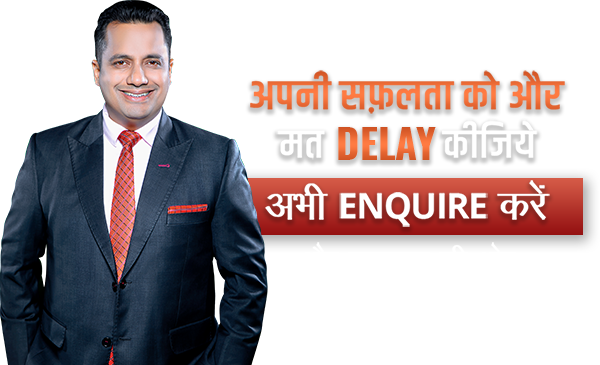
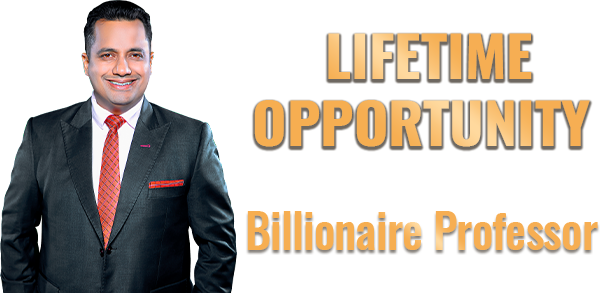
front page changed

diff --git a/index.html b/index.html
@@ -7,37 +7,72 @@
     <meta name="viewport" content="width=device-width, initial-scale=1.0">
     <title>HOW TO START A STARTUP</title>
     <link rel="stylesheet" href="css/style.css">
+    <link rel="stylesheet" type="text/css" href="https://www.badabusiness.com/assets/ibcenquiry/css/style.css">
+    <link rel="stylesheet" type="text/css" href="https://www.badabusiness.com/assets/ibcenquiry/css/media.css">
     <link href="https://cdn.jsdelivr.net/npm/bootstrap@5.1.0/dist/css/bootstrap.min.css" rel="stylesheet"
         integrity="sha384-KyZXEAg3QhqLMpG8r+8fhAXLRk2vvoC2f3B09zVXn8CA5QIVfZOJ3BCsw2P0p/We" crossorigin="anonymous">
-    <script src="https://code.jquery.com/jquery-3.2.1.slim.min.js" integrity="sha384-KJ3o2DKtIkvYIK3UENzmM7KCkRr/rE9/Qpg6aAZGJwFDMVNA/GpGFF93hXpG5KkN" crossorigin="anonymous"></script>
-    <script src="https://cdnjs.cloudflare.com/ajax/libs/popper.js/1.12.3/umd/popper.min.js" integrity="sha384-vFJXuSJphROIrBnz7yo7oB41mKfc8JzQZiCq4NCceLEaO4IHwicKwpJf9c9IpFgh" crossorigin="anonymous"></script>
-    <script src="https://maxcdn.bootstrapcdn.com/bootstrap/4.0.0-beta.2/js/bootstrap.min.js" integrity="sha384-alpBpkh1PFOepccYVYDB4do5UnbKysX5WZXm3XxPqe5iKTfUKjNkCk9SaVuEZflJ" crossorigin="anonymous"></script>
+    <script src="https://code.jquery.com/jquery-3.2.1.slim.min.js"
+        integrity="sha384-KJ3o2DKtIkvYIK3UENzmM7KCkRr/rE9/Qpg6aAZGJwFDMVNA/GpGFF93hXpG5KkN"
+        crossorigin="anonymous"></script>
+    <script src="https://cdnjs.cloudflare.com/ajax/libs/popper.js/1.12.3/umd/popper.min.js"
+        integrity="sha384-vFJXuSJphROIrBnz7yo7oB41mKfc8JzQZiCq4NCceLEaO4IHwicKwpJf9c9IpFgh"
+        crossorigin="anonymous"></script>
+    <script src="https://maxcdn.bootstrapcdn.com/bootstrap/4.0.0-beta.2/js/bootstrap.min.js"
+        integrity="sha384-alpBpkh1PFOepccYVYDB4do5UnbKysX5WZXm3XxPqe5iKTfUKjNkCk9SaVuEZflJ"
+        crossorigin="anonymous"></script>
 </head>
 
 <body>
 
-    <!-- Section 1 -->
-    <section id="bg-1" class="container-fluid">
+    <div class="first-div formcont bg_sales">
         <div class="row">
-            <div class="col-lg-12 col-md-12 pt-4">
-                <h1 class="text-center">HOW TO START A STARTUP</h1><h4 class="text-center underline"></h4>
-            </div>
-            <div class="col-lg-12 col-md-12 pt-4 d-flex justify-content-center">
-                <img style="border-radius: 20px;" src="images/poster.png" class="img-fluid">
-            </div>
-            <div class="col-lg-12 col-md-12 pt-4">
-                <a data-toggle="modal" data-target="#myModal" class="btn btn-primary d-block">
-                    <h4>Register Now</h4>
-                </a>
+            <div class="col-12">
+                <a href=""><img src="https://www.badabusiness.com/assets/ibcenquiry/images/logo_BB.png" alt="logo" class="bblogo" style="max-width: 100%;"></a><br>
             </div>
         </div>
-    </section>
+        <div class="container-fluid nogutter form_sal">
+            <div class="row nogutter deskkview">
+                <div class="col-lg-9 col-sm-12">
+                    <img src="https://www.badabusiness.com/assets/ibcenquiry/images/mob_web_bnrrr.png"
+                        style="max-width: 100%;" class="mobsview">
+                </div>
+                <div class="col-lg-3 col-sm-12 d-flex justify-content-center">
+                    <form method="post" autocomplete="off" name="google-sheet" class="formsales1" accept-charset="utf-8">
+                        <h1>Get In Touch With Us</h1>
+                        <div class="form-group">
+                            <input type="text" required="required" name="name" class="form-control curve_corner"
+                                id="exampleInputName" aria-describedby="Name" placeholder="Name" />
+                        </div>
+                        <div class="form-group">
+                            <input type="text" required="required" name="phone" class="form-control curve_corner"
+                                id="exampleInputPhone" aria-describedby="Phone" placeholder="Phone" />
+                        </div>
+                        <div class="form-group">
+                            <input type="email" required="required" class="form-control curve_corner" name="email"
+                                id="exampleInputEmail1" aria-describedby="emailHelp" placeholder="Email" />
+                        </div>
+                        <div class="uk-margin-small-top">
+                            <label class="uk-text-small">
+                                <input name="py_dd_status" class="uk-checkbox checkbox_val" type="checkbox">&nbsp;&nbsp;I agree to the <a target="_BLANK" href="https://www.badabusiness.com/terms-and-conditions">terms and conditions</a>.
+                            </label>
+                        </div>
+                        <div class="form-group text-center">
+                            <button class="btn btn-outline-secondary align-center" type="submit">
+                                Enquire Now
+                            </button>
+                        </div>
+                    </form>
+                </div>
+            </div>
+        </div>
+    </div>
 
     <!-- Section 2 -->
     <section id="section-2" class="container-fluid">
         <div class="row">
             <div class="col-lg-12 col-md-12 pt-4">
-                <h1 class="text-center">How to start a startup?</h1><h4 class="text-center underline"></h4>
+                <h1 class="text-center">How to start a startup?</h1>
+                <h4 class="text-center underline"></h4>
             </div>
             <div class="col-lg-12 col-md-12 pt-4 d-flex justify-content-center">
                 <video onclick="this.paused ? this.play() : this.pause();" poster="images/thumbnail.png" width="100%"
@@ -79,7 +114,8 @@
     <section id="bg-2" class="container-fluid">
         <div class="row">
             <div class="col-lg-12 col-md-12 pt-4">
-                <h1 class="text-center">Meet Our Billionaire Professor</h1><h4 class="text-center underline"></h4>
+                <h1 class="text-center">Meet Our Billionaire Professor</h1>
+                <h4 class="text-center underline"></h4>
             </div>
         </div>
     </section>
@@ -88,7 +124,8 @@
     <section class="container-fluid">
         <div class="row">
             <div class="col-lg-12 col-md-12 pt-4">
-                <h1 class="text-center">Our Esteemed Clients</h1><h4 class="text-center underline"></h4>
+                <h1 class="text-center">Our Esteemed Clients</h1>
+                <h4 class="text-center underline"></h4>
             </div>
             <div class="col-2 pt-4 d-flex justify-content-center">
                 <img src="images/clients/1.jpg" class="img-fluid">
@@ -151,7 +188,8 @@
     <section id="bg-2" class="section-3 container-fluid">
         <div class="row">
             <div class="col-lg-12 col-md-12 pt-4">
-                <h1 class="text-center">Time Is Running Out. Grab Your Spot Fast!</h1><h4 class="text-center underline"></h4>
+                <h1 class="text-center">Time Is Running Out. Grab Your Spot Fast!</h1>
+                <h4 class="text-center underline"></h4>
             </div>
             <div class="row pt-4">
                 <div class="col-lg-3 col-6 col-md-3 pb-2 pt-2">
@@ -199,7 +237,8 @@
     <section class="container-fluid">
         <div class="row">
             <div class="col-lg-12 col-md-12 pt-4">
-                <h1 class="text-center">If you register, What is your benifits?</h1><h4 class="text-center underline"></h4>
+                <h1 class="text-center">If you register, What is your benifits?</h1>
+                <h4 class="text-center underline"></h4>
             </div>
             <div class="col-lg-6 col-md-6 pt-4">
                 <div class="card benefit-card">
@@ -353,7 +392,8 @@
     <section id="bg-2" class="container-fluid">
         <div class="row">
             <div class="col-lg-12 col-md-12 pt-4">
-                <h1 class="text-center">Still wondering if this opportunity is for you?</h1><h4 class="text-center underline"></h4>
+                <h1 class="text-center">Still wondering if this opportunity is for you?</h1>
+                <h4 class="text-center underline"></h4>
             </div>
             <div class="col-lg-12 col-md-12 pt-4">
                 <div class="row">
@@ -414,7 +454,8 @@
     <section id="section-5" class="container-fluid">
         <div class="row">
             <div class="col-lg-12 col-md-12 pt-4">
-                <h1 class="text-center">You are not the first one to join</h1><h4 class="text-center underline"></h4>
+                <h1 class="text-center">You are not the first one to join</h1>
+                <h4 class="text-center underline"></h4>
             </div>
             <div class="col-lg-12 col-md-12 pt-4">
                 <div class="row">
@@ -451,7 +492,8 @@
     <section id="bg-1" class="container-fluid">
         <div class="row">
             <div class="col-lg-12 col-md-12 pt-4">
-                <h1 class="text-center">Meet Your Guru</h1><h4 class="text-center underline"></h4>
+                <h1 class="text-center">Meet Your Guru</h1>
+                <h4 class="text-center underline"></h4>
             </div>
             <div class="col-lg-12 col-md-12 pt-4">
                 <div class="row">
@@ -497,21 +539,34 @@
                 </div>
             </div>
             <div class="col-lg-12 col-md-12 pt-4">
-                <p>Dr Vivek Bindra is a Revolutionary Entrepreneur, an Internationally Acclaimed Motivational Speaker and a Business Coach.
-                    <br>Known for Creating Most Sought after Content on Leadership Development, which is Helping People across the Globe in achieving their Business Goals.
-                    <br>Author of 10 High Power Motivational Books, which are available on Flipkart and Amazon.</p>
+                <p>Dr Vivek Bindra is a Revolutionary Entrepreneur, an Internationally Acclaimed Motivational Speaker
+                    and a Business Coach.
+                    <br>Known for Creating Most Sought after Content on Leadership Development, which is Helping People
+                    across the Globe in achieving their Business Goals.
+                    <br>Author of 10 High Power Motivational Books, which are available on Flipkart and Amazon.
+                </p>
             </div>
             <div class="row">
                 <div class="col-lg-8 col-md-8 pt-4">
                     <h4>YouTube</h4>
-                    <p><img class="img-fluid" width="15px" src="images/arrow.png"> Owner of World’s Most Subscribed Entrepreneurship YouTube Channel.
-                        <br><img class="img-fluid" width="15px" src="images/arrow.png"> With 10.1 Million Active Subscribers on YouTube, he is one of the World’s Greatest Influencers.
-                        <br><img class="img-fluid" width="15px" src="images/arrow.png"> Known for Creating a Free Learning University on YouTube.</p>
+                    <p><img class="img-fluid" width="15px" src="images/arrow.png"> Owner of World’s Most Subscribed
+                        Entrepreneurship YouTube Channel.
+                        <br><img class="img-fluid" width="15px" src="images/arrow.png"> With 10.1 Million Active
+                        Subscribers on YouTube, he is one of the World’s Greatest Influencers.
+                        <br><img class="img-fluid" width="15px" src="images/arrow.png"> Known for Creating a Free
+                        Learning University on YouTube.
+                    </p>
                     <h4>Awards & Honours</h4>
-                    <p><img class="img-fluid" width="15px" src="images/arrow.png"> Bestowed with the Honorary Title of ‘Think Tank of Corporate Asia’ by World Leadership Federation, Dubai.
-                        <br><img class="img-fluid" width="15px" src="images/arrow.png"> Awarded the Best Leadership Trainer in Asia title by Marshall Goldsmith at the World HRD Congress.
-                        <br><img class="img-fluid" width="15px" src="images/arrow.png"> Awarded with India’s Greatest Brands and Leaders – Pride of the Nation Award in a ceremonial function hosted by PricewaterhouseCoopers (PwC)
-                        <br><img class="img-fluid" width="15px" src="images/arrow.png"> Awarded the Best CEO Coach in India by Times of India – Speaking Tree.</p>
+                    <p><img class="img-fluid" width="15px" src="images/arrow.png"> Bestowed with the Honorary Title of
+                        ‘Think Tank of Corporate Asia’ by World Leadership Federation, Dubai.
+                        <br><img class="img-fluid" width="15px" src="images/arrow.png"> Awarded the Best Leadership
+                        Trainer in Asia title by Marshall Goldsmith at the World HRD Congress.
+                        <br><img class="img-fluid" width="15px" src="images/arrow.png"> Awarded with India’s Greatest
+                        Brands and Leaders – Pride of the Nation Award in a ceremonial function hosted by
+                        PricewaterhouseCoopers (PwC)
+                        <br><img class="img-fluid" width="15px" src="images/arrow.png"> Awarded the Best CEO Coach in
+                        India by Times of India – Speaking Tree.
+                    </p>
                 </div>
                 <div class="col-lg-4 col-md-4 pt-4 d-flex justify-content-center">
                     <img class="img-fluid" src="images/hero.png">
@@ -525,13 +580,13 @@
         </div>
     </section>
 
-      <!-- Modal -->
+    <!-- Modal -->
     <div class="modal fade" id="myModal" role="dialog">
         <div class="modal-dialog">
-    
+
             <!-- Modal content-->
             <div class="modal-content">
-                <form method="post" autocomplete="off" name="google-sheet" class="formsales" accept-charset="utf-8">
+                <form method="post" autocomplete="off" name="google-sheet" class="formsales1" accept-charset="utf-8">
                     <h1>Get In Touch With Us</h1>
                     <div class="form-group">
                         <input type="text" required="required" name="name" class="form-control curve_corner"
@@ -545,6 +600,11 @@
                         <input type="email" required="required" class="form-control curve_corner" name="email"
                             id="exampleInputEmail1" aria-describedby="emailHelp" placeholder="Email" />
                     </div>
+                    <div class="uk-margin-small-top">
+                        <label class="uk-text-small">
+                            <input name="py_dd_status" class="uk-checkbox checkbox_val" type="checkbox">&nbsp;&nbsp;I agree to the <a target="_BLANK" href="https://www.badabusiness.com/terms-and-conditions">terms and conditions</a>.
+                        </label>
+                    </div>
                     <div class="form-group text-center">
                         <button class="btn btn-outline-secondary align-center" type="submit">
                             Enquire Now
@@ -553,45 +613,45 @@
                 </form>
             </div>
         </div>
-    </section>
+        </section>
 
 
-    <script>
-        (function () {
-            const second = 1000,
-                minute = second * 60,
-                hour = minute * 60,
-                day = hour * 24;
+        <script>
+            (function () {
+                const second = 1000,
+                    minute = second * 60,
+                    hour = minute * 60,
+                    day = hour * 24;
 
-            let birthday = "Aug 30, 2021 00:00:00",
-                countDown = new Date(birthday).getTime(),
-                x = setInterval(function () {
+                let birthday = "Aug 30, 2021 00:00:00",
+                    countDown = new Date(birthday).getTime(),
+                    x = setInterval(function () {
 
-                    let now = new Date().getTime(),
-                        distance = countDown - now;
+                        let now = new Date().getTime(),
+                            distance = countDown - now;
 
-                    document.getElementById("days").innerText = Math.floor(distance / (day)),
-                        document.getElementById("hours").innerText = Math.floor((distance % (day)) / (hour)),
-                        document.getElementById("minutes").innerText = Math.floor((distance % (hour)) / (minute)),
-                        document.getElementById("seconds").innerText = Math.floor((distance % (minute)) / second);
-                    //seconds
-                }, 0)
-        }());
-    </script>
-    <script>
-        const scriptURL = 'https://script.google.com/macros/s/AKfycbz52Sc7GW4j37sqcxmCNhe11dtghwgfASTx_IrF9KE7-lMP2Dh0P4t2JkGVj5CAqq6tyg/exec'
-        const form = document.forms['google-sheet']
+                        document.getElementById("days").innerText = Math.floor(distance / (day)),
+                            document.getElementById("hours").innerText = Math.floor((distance % (day)) / (hour)),
+                            document.getElementById("minutes").innerText = Math.floor((distance % (hour)) / (minute)),
+                            document.getElementById("seconds").innerText = Math.floor((distance % (minute)) / second);
+                        //seconds
+                    }, 0)
+            }());
+        </script>
+        <script>
+            const scriptURL = 'https://script.google.com/macros/s/AKfycbz52Sc7GW4j37sqcxmCNhe11dtghwgfASTx_IrF9KE7-lMP2Dh0P4t2JkGVj5CAqq6tyg/exec'
+            const form = document.forms['google-sheet']
 
-        form.addEventListener('submit', e => {
-            e.preventDefault()
-            fetch(scriptURL, { method: 'POST', body: new FormData(form) })
-                .then(response => window.location="thankyou.html")
-                .catch(error => console.error('Error!', error.message))
-        })
-    </script>
-    <script src="https://cdn.jsdelivr.net/npm/bootstrap@5.1.0/dist/js/bootstrap.bundle.min.js"
-        integrity="sha384-U1DAWAznBHeqEIlVSCgzq+c9gqGAJn5c/t99JyeKa9xxaYpSvHU5awsuZVVFIhvj"
-        crossorigin="anonymous"></script>
+            form.addEventListener('submit', e => {
+                e.preventDefault()
+                fetch(scriptURL, { method: 'POST', body: new FormData(form) })
+                    .then(response => window.location = "thankyou.html")
+                    .catch(error => console.error('Error!', error.message))
+            })
+        </script>
+        <script src="https://cdn.jsdelivr.net/npm/bootstrap@5.1.0/dist/js/bootstrap.bundle.min.js"
+            integrity="sha384-U1DAWAznBHeqEIlVSCgzq+c9gqGAJn5c/t99JyeKa9xxaYpSvHU5awsuZVVFIhvj"
+            crossorigin="anonymous"></script>
 </body>
 
 </html>

diff --git a/css/style.css b/css/style.css
@@ -23,6 +23,10 @@ section {
   padding: 5% 15% !important;
 }
 
+.first-div {
+  padding: 3% 4% !important;
+}
+
 @media screen and (max-width: 767px) {
   section {
     padding: 5% 5% !important;
@@ -122,7 +126,7 @@ video {
   height: auto;
 }
 
-.formsales {
+.formsales1 {
   border-radius: 20px;
   display: inline-table;
   padding: 20px 40px;
@@ -132,23 +136,23 @@ video {
   -moz-box-shadow: 0px 24px 44px 0px rgba(190, 114, 99, 0.37);
   box-shadow: 0px 24px 44px 0px rgba(190, 114, 99, 0.37);
 }
-.formsales h1 {
+.formsales1 h1 {
   color: #5d5845;
   font-weight: 700;
   margin-bottom: 15px;
   font-size: 28px;
   text-align: center;
 }
-.formsales input,
+.formsales1 input,
 select {
   border: 1px #fcbc44 solid !important;
 }
-.formsales .boder_lft {
+.formsales1 .boder_lft {
   border-left: 0px !important;
   border-top-right-radius: 2rem !important;
   border-bottom-right-radius: 2rem !important;
 }
-.formsales .boder_lftradius {
+.formsales1 .boder_lftradius {
   width: 120px;
   border-bottom-left-radius: 2rem !important;
   border-top-left-radius: 2rem !important;
@@ -157,7 +161,7 @@ select {
 .curve_corner {
   border-radius: 2rem !important;
 }
-.formsales button {
+.formsales1 button {
   width: 200px;
   position: relative;
   top: 15px;
@@ -169,9 +173,9 @@ select {
   font-weight: 700;
   background: #fcbc44;
 }
-.formsales .input-group {
+.formsales1 .input-group {
   margin-bottom: 1rem;
 }
-.formsales .form-group {
+.formsales1 .form-group {
   margin-bottom: 10px;
 }

diff --git a/thankyou.html b/thankyou.html
@@ -17,7 +17,7 @@
 <body style="background-color: #02131b;">
 
     <!-- Section 1 -->
-    <section id="section-1" class="container-fluid">
+    <section id="bg-1" class="container-fluid">
         <div class="row">
             <div class="col-lg-12 col-md-12 pt-4">
                 <h1 class="text-center">Thank you, You are all set..
